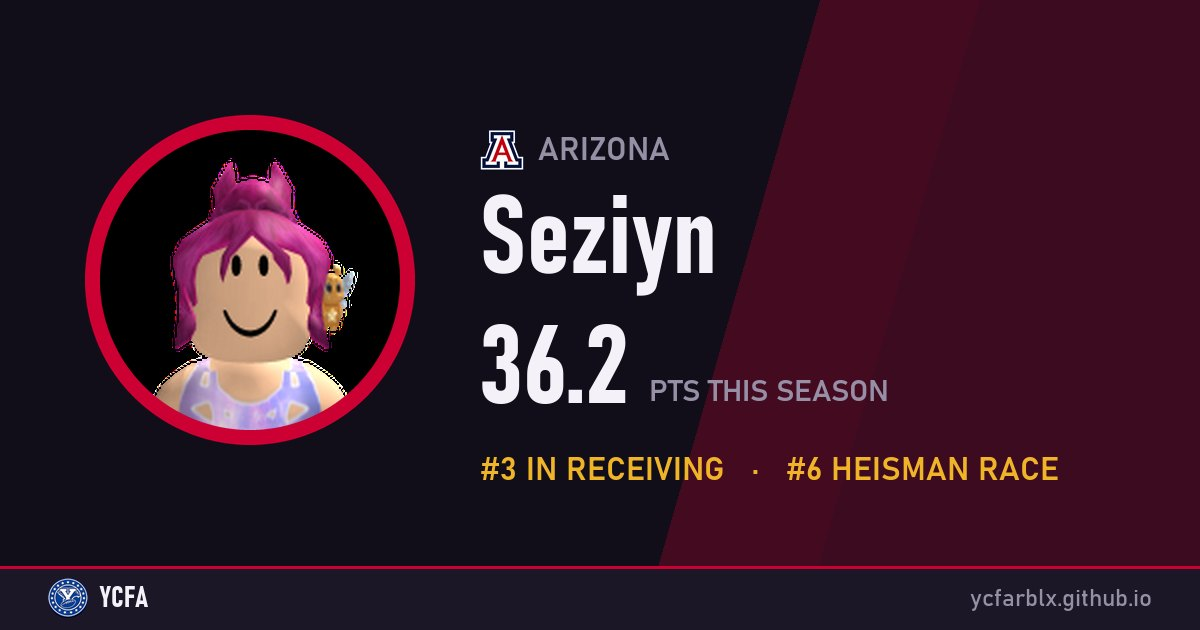
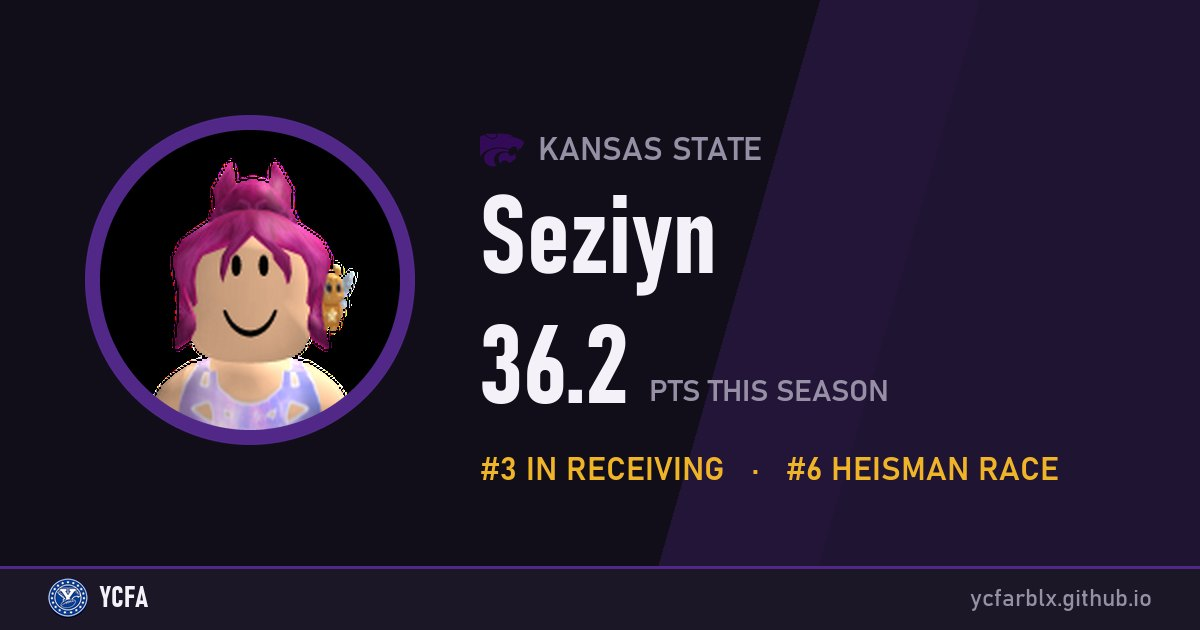
Stats update 2026-11-25 20:41

diff --git a/player/seziyn/index.html b/player/seziyn/index.html
@@ -5,20 +5,20 @@
   <meta name="viewport" content="width=device-width, initial-scale=1, viewport-fit=cover">
   <!--meta:start-->
   <title>Seziyn · YCFA</title>
-  <meta name="description" content="DB / DL / WR · Arizona · 36.2 PTS in season 1 · #3 In Receiving   ·   #6 Heisman Race. Stats, game log and career highs.">
-  <meta name="theme-color" content="#cc0033">
+  <meta name="description" content="DB / DL / WR · Kansas State · 36.2 PTS in season 1 · #3 In Receiving   ·   #6 Heisman Race. Stats, game log and career highs.">
+  <meta name="theme-color" content="#512888">
   <meta property="og:site_name" content="YCFA">
   <meta property="og:type" content="website">
   <meta property="og:title" content="Seziyn · YCFA">
-  <meta property="og:description" content="DB / DL / WR · Arizona · 36.2 PTS in season 1 · #3 In Receiving   ·   #6 Heisman Race. Stats, game log and career highs.">
+  <meta property="og:description" content="DB / DL / WR · Kansas State · 36.2 PTS in season 1 · #3 In Receiving   ·   #6 Heisman Race. Stats, game log and career highs.">
   <meta property="og:url" content="https://ycfarblx.github.io/player/seziyn">
-  <meta property="og:image" content="https://ycfarblx.github.io/og/player-seziyn.jpg?v=afdfc9e8d1">
+  <meta property="og:image" content="https://ycfarblx.github.io/og/player-seziyn.jpg?v=f7278d76d5">
   <meta property="og:image:width" content="1200">
   <meta property="og:image:height" content="630">
   <meta name="twitter:card" content="summary_large_image">
   <meta name="twitter:title" content="Seziyn · YCFA">
-  <meta name="twitter:description" content="DB / DL / WR · Arizona · 36.2 PTS in season 1 · #3 In Receiving   ·   #6 Heisman Race. Stats, game log and career highs.">
-  <meta name="twitter:image" content="https://ycfarblx.github.io/og/player-seziyn.jpg?v=afdfc9e8d1">
+  <meta name="twitter:description" content="DB / DL / WR · Kansas State · 36.2 PTS in season 1 · #3 In Receiving   ·   #6 Heisman Race. Stats, game log and career highs.">
+  <meta name="twitter:image" content="https://ycfarblx.github.io/og/player-seziyn.jpg?v=f7278d76d5">
   <!--meta:end-->
   <link rel="icon" href="/img/favicon.png">
   <link rel="apple-touch-icon" href="/img/apple-touch-icon.png">

diff --git a/game/3/index.html b/game/3/index.html
@@ -12,13 +12,13 @@
   <meta property="og:title" content="Kansas State 21, Houston 0 · Final · YCFA">
   <meta property="og:description" content="Houston forfeited. Kansas State gets the forfeit win (FFW), Houston the forfeit loss (FFL).">
   <meta property="og:url" content="https://ycfarblx.github.io/game/3">
-  <meta property="og:image" content="https://ycfarblx.github.io/og/game-3.jpg?v=3195ff5ffa">
+  <meta property="og:image" content="https://ycfarblx.github.io/og/game-3.jpg?v=157745b7cb">
   <meta property="og:image:width" content="1200">
   <meta property="og:image:height" content="630">
   <meta name="twitter:card" content="summary_large_image">
   <meta name="twitter:title" content="Kansas State 21, Houston 0 · Final · YCFA">
   <meta name="twitter:description" content="Houston forfeited. Kansas State gets the forfeit win (FFW), Houston the forfeit loss (FFL).">
-  <meta name="twitter:image" content="https://ycfarblx.github.io/og/game-3.jpg?v=3195ff5ffa">
+  <meta name="twitter:image" content="https://ycfarblx.github.io/og/game-3.jpg?v=157745b7cb">
   <!--meta:end-->
   <link rel="icon" href="/img/favicon.png">
   <link rel="apple-touch-icon" href="/img/apple-touch-icon.png">
